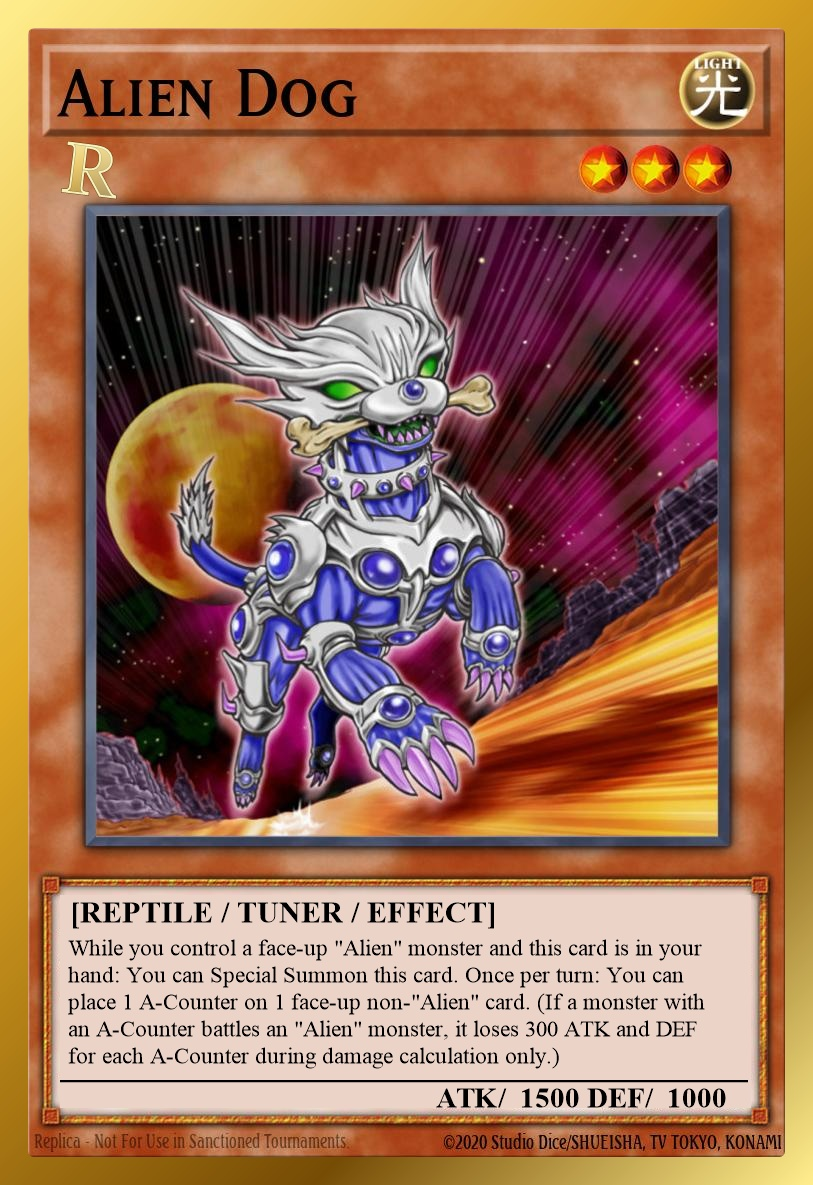
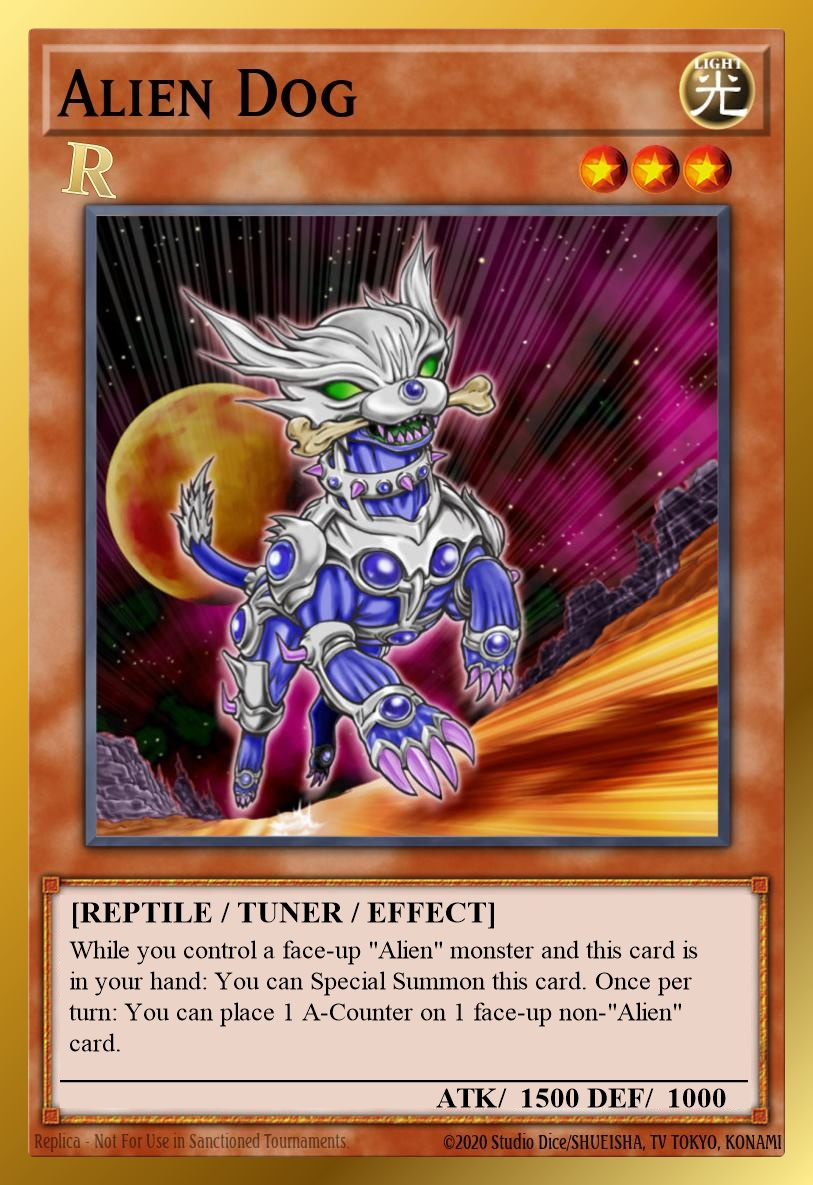
Alien Dog "Bug Fix" reverted, because it wasn't a bug

Changed region(s): [[0.0615, 0.7806, 0.861, 0.9055]]

diff --git a/Redux/scripts/build-cards-cdb.js b/Redux/scripts/build-cards-cdb.js
@@ -119,7 +119,7 @@ module.exports = function buildCardsDb({ reduxRoot }) {
   const alienDogTextResult = db
     .prepare("UPDATE texts SET desc = ?, str1 = ?, str2 = ? WHERE id = ?")
     .run(
-      'While you control a face-up "Alien" monster and this card is in your hand: You can Special Summon this card. Once per turn: You can place 1 A-Counter on 1 face-up non-"Alien" card. (If a monster with an A-Counter battles an "Alien" monster, it loses 300 ATK and DEF for each A-Counter during damage calculation only.)',
+      'While you control a face-up "Alien" monster and this card is in your hand: You can Special Summon this card. Once per turn: You can place 1 A-Counter on 1 face-up non-"Alien" card.',
       "Special Summon this card from your hand",
       'Place 1 A-Counter on 1 face-up non-"Alien" card',
       15475415,
